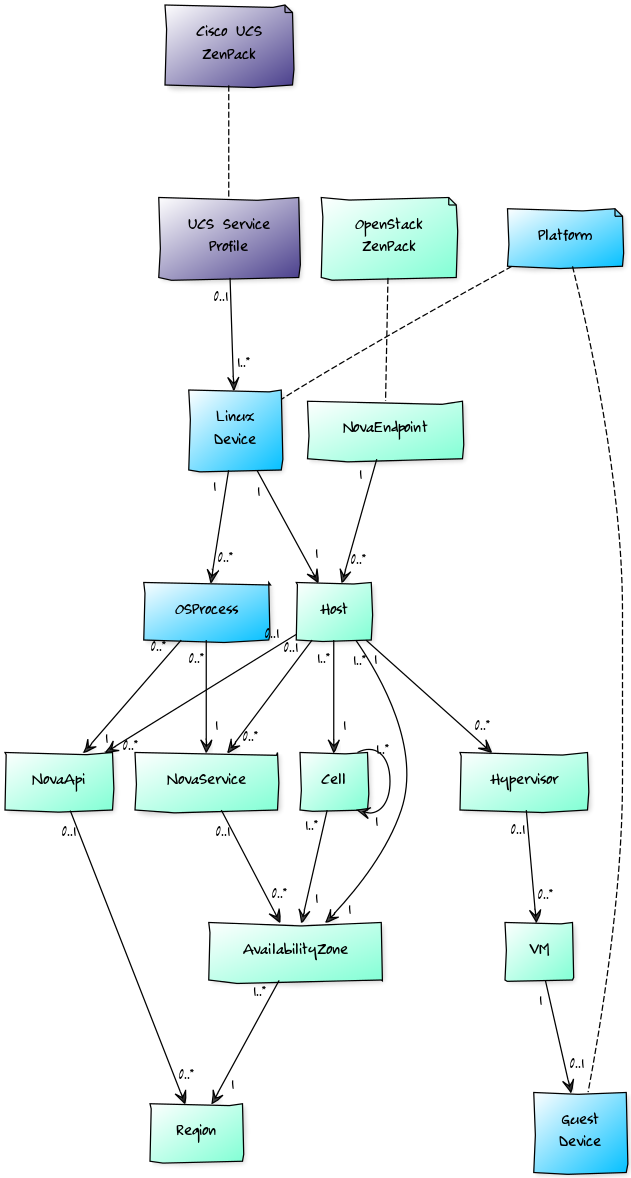
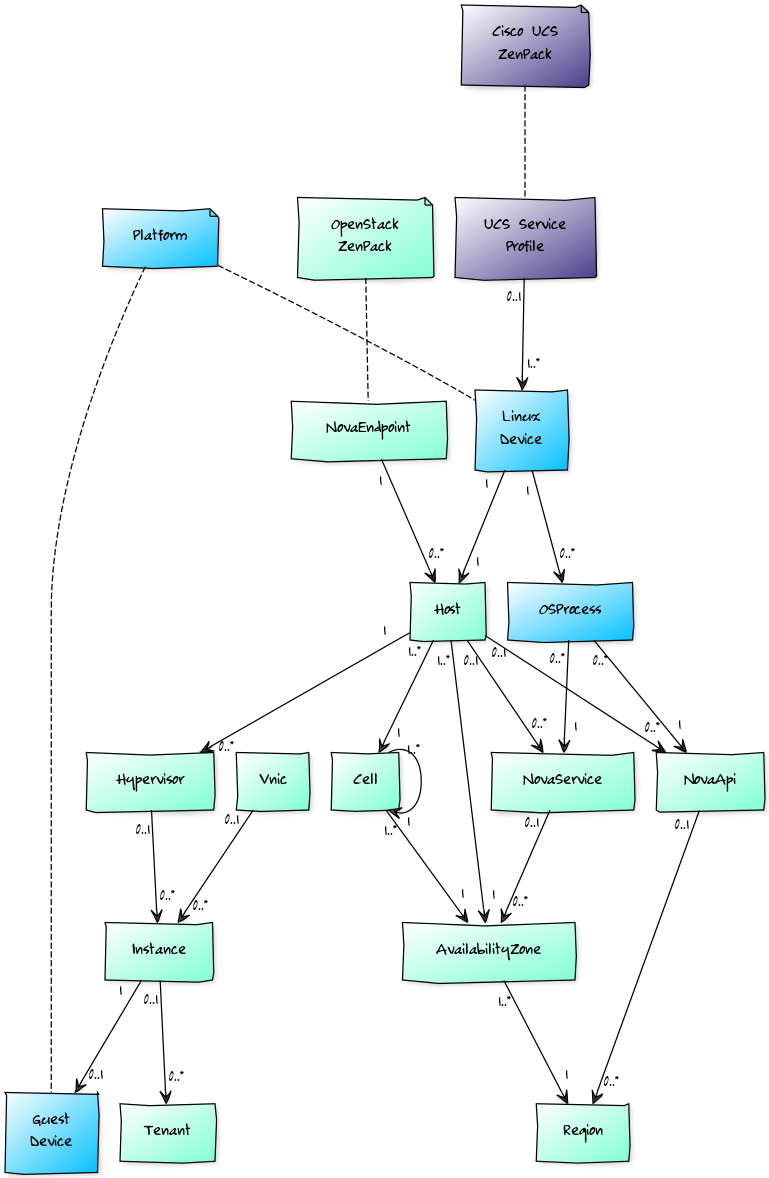
Added tenant modeling and impact

diff --git a/ZenPacks/zenoss/OpenStack/modeler/plugins/zenoss/OpenStack.py b/ZenPacks/zenoss/OpenStack/modeler/plugins/zenoss/OpenStack.py
@@ -26,6 +26,7 @@ from ZenPacks.zenoss.OpenStack.utils import add_local_lib_path
 add_local_lib_path()
 
 from apiclients.novaapiclient import NovaAPIClient, NotFoundError
+from apiclients.keystoneapiclient import KeystoneAPIClient
 
 
 
@@ -50,33 +51,57 @@ class OpenStack(PythonPlugin):
             device.zOpenStackProjectId,
             device.zOpenStackRegionName)
 
+        keystone_client = KeystoneAPIClient(
+            device.zCommandUsername,
+            device.zCommandPassword,
+            device.zOpenStackAuthUrl,
+            device.zOpenStackProjectId)
+
         results = {}
+
+        result = yield keystone_client.tenants()
+        results['tenants'] = result['tenants']
+        log.debug('tenants: %s\n' % str(results['tenants']))
 
         result = yield client.flavors(detailed=True, is_public=None)
         results['flavors'] = result['flavors']
-        log.info('flavors: %s\n' % str(results['flavors']))
+        log.debug('flavors: %s\n' % str(results['flavors']))
 
         result = yield client.images(detailed=True)
         results['images'] = result['images']
-        log.info('images: %s\n' % str(results['images']))
+        log.debug('images: %s\n' % str(results['images']))
 
         result = yield client.hypervisors(detailed=False,
                                           hypervisor_match='%',
                                           servers=True)
         results['hypervisors'] = result['hypervisors']
-        log.info('hypervisors: %s\n' % str(results['hypervisors']))
+        log.debug('hypervisors: %s\n' % str(results['hypervisors']))
 
-        result = yield client.servers(detailed=True)
+        result = yield client.servers(detailed=True, search_opts={'all_tenants': 1})
         results['servers'] = result['servers']
-        log.info('servers: %s\n' % str(results['servers']))
+        log.debug('servers: %s\n' % str(results['servers']))
 
         result = yield client.services()
         results['services'] = result['services']
-        log.info('services: %s\n' % str(results['services']))
+        log.debug('services: %s\n' % str(results['services']))
 
         returnValue(results)
 
     def process(self, device, results, unused):
+        tenants = []
+        for tenant in results['tenants']:
+            if tenant['enabled'] is not True:
+                continue
+
+            tenants.append(ObjectMap(
+                modname='ZenPacks.zenoss.OpenStack.Tenant',
+                data=dict(
+                    id='tenant-{0}'.format(tenant['id']),
+                    title=tenant['name'],              # nova
+                    description=tenant['description'], # tenant description
+                    tenantId=tenant['id']
+                )))
+
         region_id = prepId("region-{0}".format(device.zOpenStackRegionName))
         region = ObjectMap(
             modname='ZenPacks.zenoss.OpenStack.Region',
@@ -180,6 +205,8 @@ class OpenStack(PythonPlugin):
             elif server.has_key('image') and server['image'].has_key('id'):
                 image_id = server['image']['id']
 
+            tenant_id = server['tenant_id']
+
             servers.append(ObjectMap(
                 modname='ZenPacks.zenoss.OpenStack.Instance',
                 data=dict(
@@ -195,8 +222,9 @@ class OpenStack(PythonPlugin):
                     privateIps=list(private_ips),                 # 10.182.13.13
                     set_flavor='flavor-{0}'.format(flavor_id),    # flavor-performance1-1
                     set_image='image-{0}'.format(image_id),       # image-346eeba5-a122-42f1-94e7-06cb3c53f690
-                    hostId=server['hostId'],                         # a84303c0021aa53c7e749cbbbfac265f
-                    hostName=server['name']                          # cloudserver01
+                    set_tenant='tenant-{0}'.format(tenant_id),    # tenant-a3a2901f2fd14f808401863e3628a858
+                    hostId=server['hostId'],                      # a84303c0021aa53c7e749cbbbfac265f
+                    hostName=server['name']                       # cloudserver01
                 )))
 
         services = []
@@ -328,9 +356,10 @@ class OpenStack(PythonPlugin):
                 )))
 
         componentsMap = RelationshipMap(relname='components')
-        for objmap in [region] + flavors + images + servers + \
+
+        for objmap in tenants + [region] + flavors + images + servers + \
             zones.values() + hosts + hypervisors + services:
-            componentsMap.append(objmap)
+            componentsMap.append(objmap)        
 
         endpointObjMap = ObjectMap(
             modname='ZenPacks.zenoss.OpenStack.Endpoint',

diff --git a/ZenPacks/zenoss/OpenStack/__init__.py b/ZenPacks/zenoss/OpenStack/__init__.py
@@ -37,6 +37,7 @@ RELATIONSHIPS_YUML = """
 [OrgComponent]1-.-*[SoftwareComponent]
 [Flavor]1-.-*[Instance]
 [Image]1-.-*[Instance]
+[Tenant]1-.-*[Instance]
 [Hypervisor]1-.-*[Instance]
 // non-containing 1:1
 [Hypervisor]1-.-1[Host]
@@ -143,6 +144,18 @@ CFG = zenpacklib.ZenPackSpec(
 
         # Component Types ############################################
 
+        'Tenant': {
+            'base': 'OpenstackComponent',
+            'meta_type': 'OpenStackTenant',
+            'label': 'Tenant',
+            'order': 1,
+            'properties': {
+                'tenantID':   {'grid_display': False},
+                'description': { 'label': 'Description'},
+            },
+            'impacted_by': ['instances']
+        },
+
         'Flavor': {
             'base': 'LogicalComponent',
             'meta_type': 'OpenStackFlavor',
@@ -188,8 +201,10 @@ CFG = zenpacklib.ZenPackSpec(
                                         'label': 'Public IPs'},   # ['50.57.74.222']
                 'privateIps':          {'type_': 'lines',
                                         'label': 'Private IPs'},  # ['10.182.13.13']
-                'biosUuid':            {'label': 'BIOS UUID'},
-                'serialNumber':        {'label': 'BIOS Serial Number'},
+                'biosUuid':            {'label': 'BIOS UUID',
+                                        'grid_display': False},
+                'serialNumber':        {'label': 'BIOS Serial Number',
+                                        'grid_display': False},
                 
                 # The name this insance is known by within the hypervisor (for instance,
                 # for libvirt, it would be something like 'instance-00000001')
@@ -209,7 +224,7 @@ CFG = zenpacklib.ZenPackSpec(
                 'hypervisor': {'grid_display': False}  # no need to show this- show the host instead
             },
             'impacted_by': ['hypervisor'],
-            'impacts': ['guestDevice']
+            'impacts': ['guestDevice', 'tenant']
 
             # Note: By (nova) design, hostId is a hash of the actual underlying host and project, and
             # is designed to allow users of a specific project to tell if two VMs are on the same host, nothing

diff --git a/ZenPacks/zenoss/OpenStack/tests/test_impact.py b/ZenPacks/zenoss/OpenStack/tests/test_impact.py
@@ -405,6 +405,24 @@ class TestImpact(zenpacklib.TestCase):
                 self.assertTrue(guest.id in impacts,
                                 msg="Instance %s impacts guest %s" % (instance.id, guest.id))
 
+            tenant = instance.tenant()
+            self.assertTrue(tenant.id in impacts,
+                            msg="Instance %s impacts tenant %s" % (instance.id, tenant.id))
+
+
+    @require_zenpack('ZenPacks.zenoss.Impact')
+    def test_Tenant(self):
+        tenants = self.endpoint().getDeviceComponents(type='OpenStackTenant')
+        self.assertNotEqual(len(tenants), 0)
+
+        for tenant in tenants:
+            impacts, impacted_by = impacts_for(tenant)
+
+            for instance in tenant.instances():                
+                self.assertTrue(instance.id in impacted_by,
+                                msg="Tenant %s impacted by instance %s" % (tenant.id, instance.id))
+
+
 
     @require_zenpack('ZenPacks.zenoss.Impact')
     @unittest.expectedFailure

diff --git a/ZenPacks/zenoss/OpenStack/tests/test_utils.py b/ZenPacks/zenoss/OpenStack/tests/test_utils.py
@@ -113,6 +113,11 @@ def create_model_data(dmd):
     addNonContained(region, "childOrgs", zone1)
     addNonContained(region, "childOrgs", zone2)
 
+    # Tenants
+    from ZenPacks.zenoss.OpenStack.Tenant import Tenant
+    tenant1 = addContained(endpoint, "components", Tenant("tenant1"))
+    tenant2 = addContained(endpoint, "components", Tenant("tenant2"))
+
     # Flavor
     from ZenPacks.zenoss.OpenStack.Flavor import Flavor
     flavor1 = addContained(endpoint, "components", Flavor("flavor1"))
@@ -191,6 +196,10 @@ def create_model_data(dmd):
     addNonContained(instance2, "hypervisor", hypervisor1)
     addNonContained(instance3, "hypervisor", hypervisor2)
     addNonContained(instance4, "hypervisor", hypervisor2)
+    addNonContained(instance1, "tenant", tenant1)
+    addNonContained(instance2, "tenant", tenant2)
+    addNonContained(instance3, "tenant", tenant1)
+    addNonContained(instance4, "tenant", tenant2)
 
     # Vnic
     from ZenPacks.zenoss.OpenStack.Vnic import Vnic
